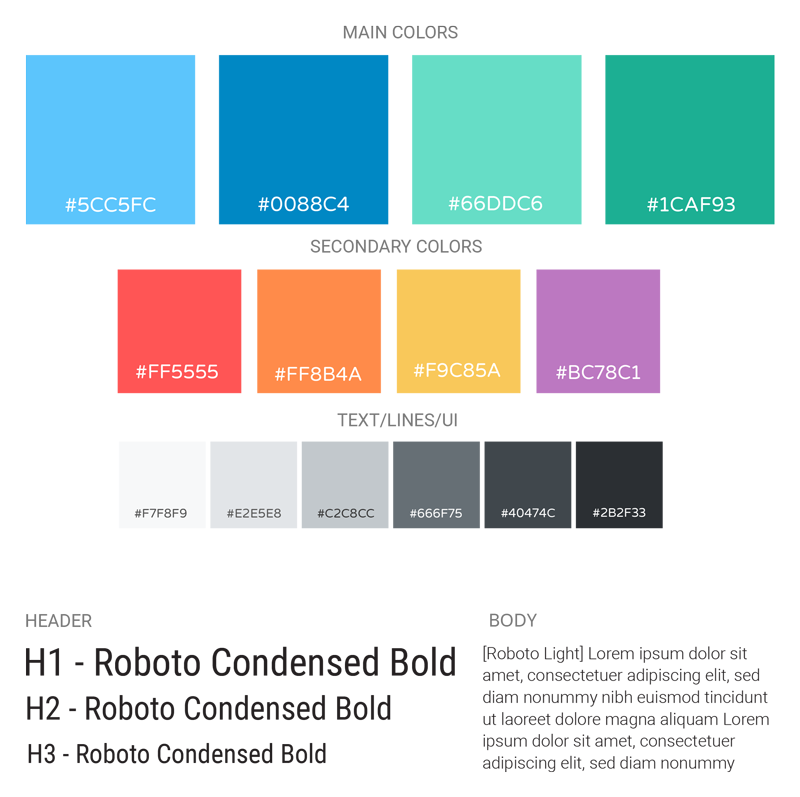
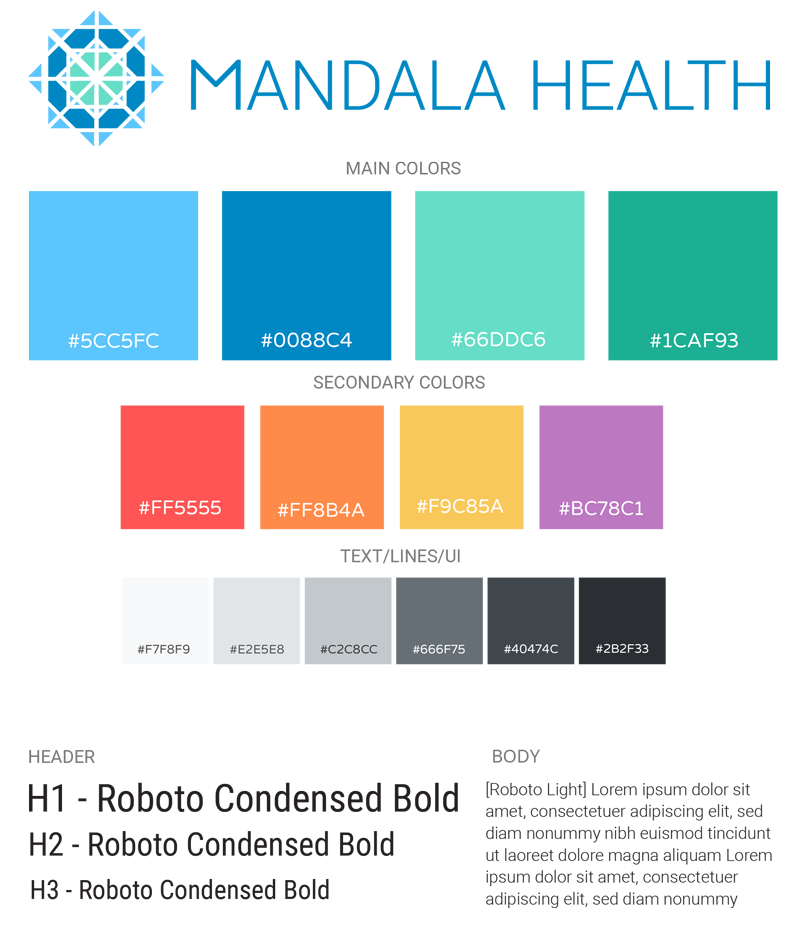
update 2/22

diff --git a/mandala.html b/mandala.html
@@ -306,7 +306,10 @@
 
     <p>My type system features Roboto Condensed for the headers for its strong geometric lines and exceptional readability. I use a lighter weight of Roboto Light for the body content.</p>
   
-    <img class="brandlogo" src="images/mandala_logo.png" alt="Mandala Health Logo"/>
+    <p> Once the dashboard and main user flows were created I went back to explore the identity for this personal health management platform. I wanted to create a unique identity that would stand apart from what already existed in the health tech marketplace. This was a great challenge as many of my initial ideas already existed and I didn’t have a strong parent company to help build my platform from like my competitors in Microsoft or WebMD.</p>
+
+    <p>In the end a loose geometric interpretation of “Mandala” was used as the logo icon and the name for this health application. Mandala is a geometric pattern that represents the universe, which fits the goals and desires for a personal health management system. Health was added to the brand name so users can easily identify that this is a health tech offering.</p>
+ 
   
   </div>
 
@@ -314,17 +317,17 @@
     <img class="brandui" src="images/mandala_brand.png" alt="Mandala Health Brand"/>
     </div>
 
+</section>
 
-<div class="brand2">
-<p> Once the dashboard and main user flows were created I went back to explore the identity for this personal health management platform. I wanted to create a unique identity that would stand apart from what already existed in the health tech marketplace. This was a great challenge as many of my initial ideas already existed and I didn’t have a strong parent company to help build my platform from like my competitors in Microsoft or WebMD.</p>
-
-<p>In the end a loose geometric interpretation of “Mandala” was used as the logo icon and the name for this health application. Mandala is a geometric pattern that represents the universe, which fits the goals and desires for a personal health management system. Health was added to the brand name so users can easily identify that this is a health tech offering.</p>
+<section class="brandtest">
 
 <h4><strong>PREFERENCE TESTING THROUGH USABILITYHUB.COM</strong></h4>
+<div>
 <img class="preference-test" src="images/mandala_preference.png" alt="Mandala Health Preference test"/>
 <p> I created a collection of the Mandala geometric pattern and tested my two favorite designs to determine which logo would be strongest. <strong>Version B</strong>was the clear winner with 90% of all votes calculated.</p>
 </div>
 </section>
+
 
 <!--UI & BRAND-->
 

diff --git a/css/style.css b/css/style.css
@@ -817,16 +817,20 @@ float:block;
   margin: 3% 10%;
 }
 
-.brand img{
+.brand .one-half img{
   height:80%;
   width:80%;
   margin: 0% 10%;
-  padding-bottom:50px;
+  padding-bottom:25px;
 }
 
-.brand .brand2 p{
-
+.brandtest img{
+  height:80%;
+  width:80%;
+  margin: 0% 10%;
 }
+
+
 
 .user-flows ul li{
   list-style-type:circle;
@@ -889,6 +893,11 @@ float:block;
   padding: 3em;
 }
 
+.brandtest{
+  padding: 0 3em 3em 3em;
+  margin-top:-10%;
+}
+
 .competitor{
   background-color:#f6f6f6;
 }
@@ -900,6 +909,10 @@ float:block;
 }
 
 .brand{
+  background-color:#f6f6f6;
+}
+
+.brandtest {
   background-color:#f6f6f6;
 }
 
@@ -1102,6 +1115,7 @@ margin:40% 0px 0px 0px;
   height:100%;
   margin:-20% 0 0 10%;
 }
+
 
 }
 
